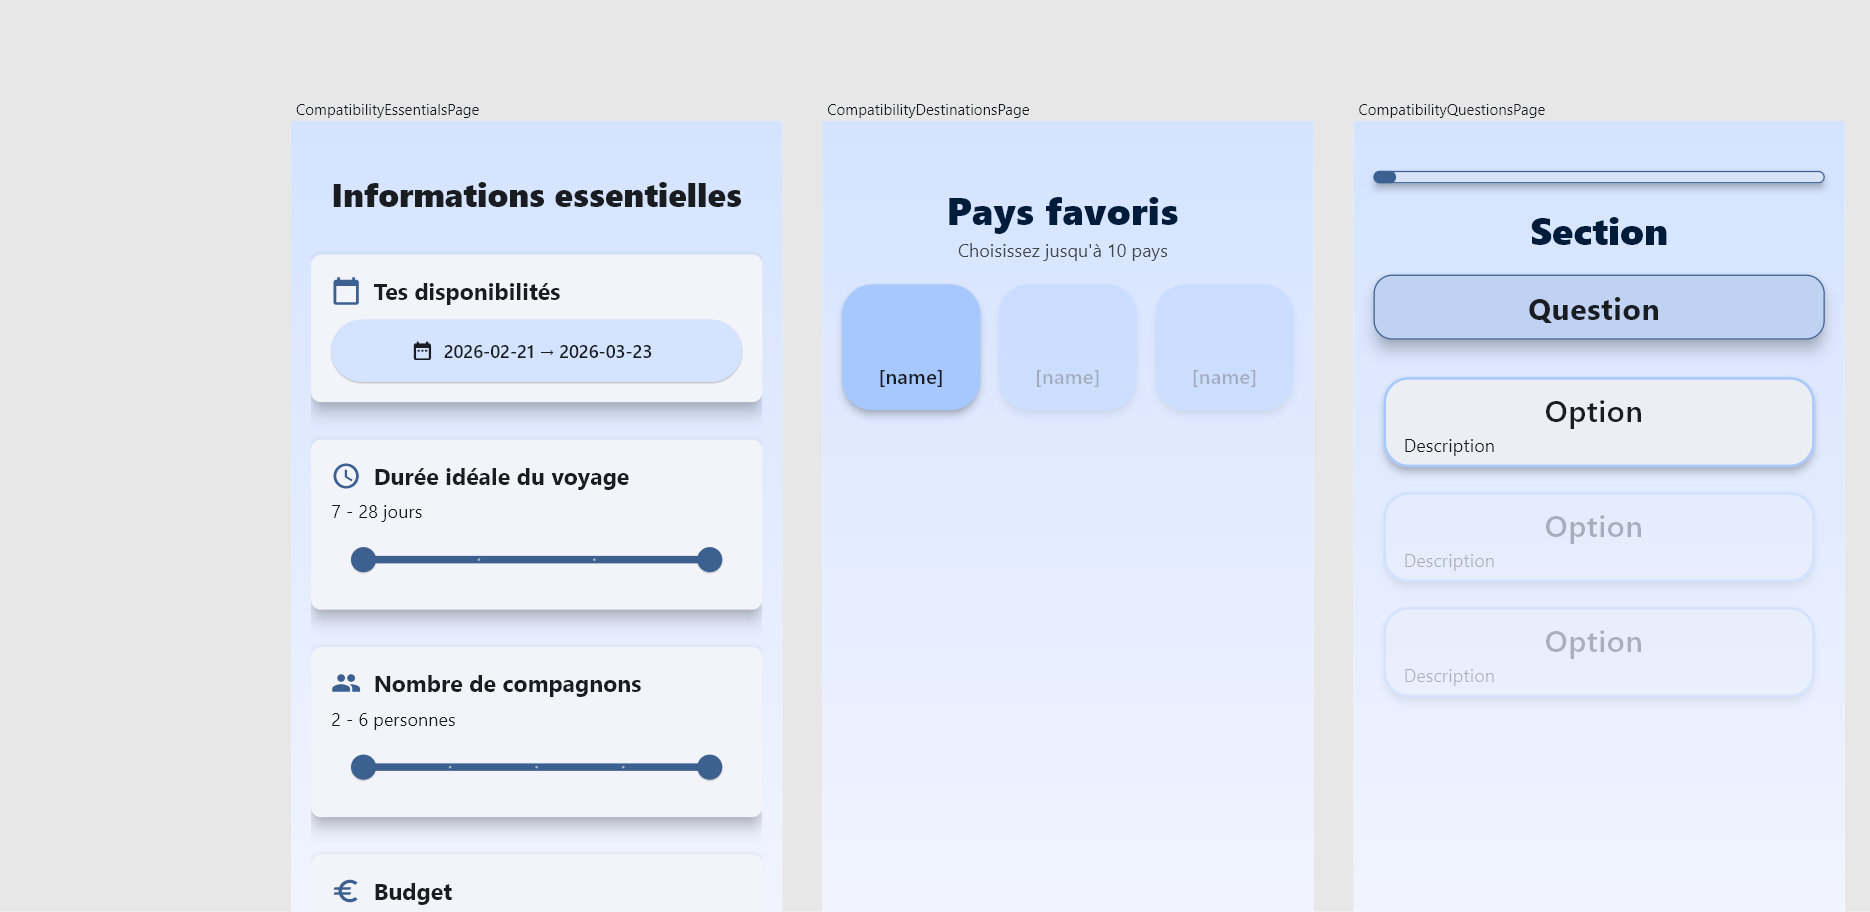
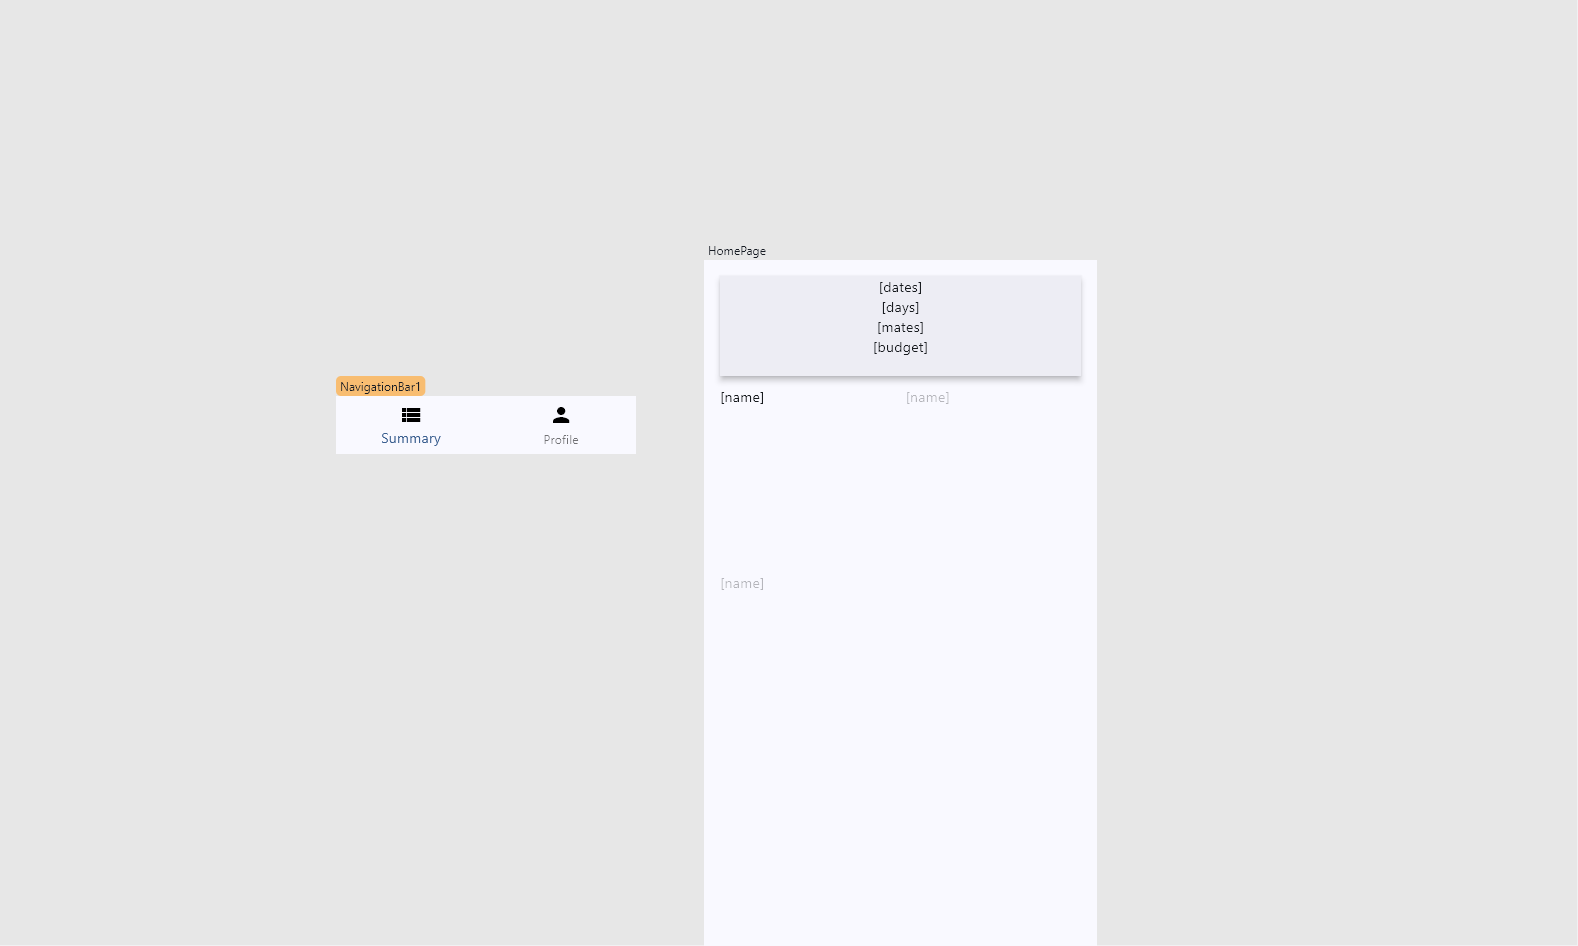
✨ Add HomePage and NavigationBar1 components, update compatibility destination handling

diff --git a/lib/pages/home_page.dart b/lib/pages/home_page.dart
@@ -1,0 +1,129 @@
+import 'package:flutter/material.dart';
+import 'package:nowa_runtime/nowa_runtime.dart';
+import 'package:railmates/pages/compatibility_essentials_page.dart';
+import 'package:railmates/models/compatibility_model.dart';
+import 'package:railmates/integrations/supabase_service.dart';
+import 'package:railmates/models/compatibility_destinations_model.dart';
+import 'package:railmates/components/nav_bar.dart';
+
+@NowaGenerated()
+class HomePage extends StatefulWidget {
+  @NowaGenerated({'loader': 'auto-constructor'})
+  const HomePage({super.key});
+
+  @override
+  State<HomePage> createState() {
+    return _HomePageState();
+  }
+}
+
+@NowaGenerated()
+class _HomePageState extends State<HomePage> {
+  @override
+  Widget build(BuildContext context) {
+    return Scaffold(
+      body: SafeArea(
+        maintainBottomViewPadding: false,
+        minimum: const EdgeInsets.symmetric(vertical: 16.0, horizontal: 16.0),
+        child: Column(
+          spacing: 10.0,
+          mainAxisSize: MainAxisSize.min,
+          mainAxisAlignment: MainAxisAlignment.start,
+          children: [
+            FlexSizedBox(
+              width: double.infinity,
+              height: 100.0,
+              child: GestureDetector(
+                onTap: () {
+                  Navigator.of(context).push(
+                    MaterialPageRoute(
+                      builder: (context) => const CompatibilityEssentialsPage(),
+                    ),
+                  );
+                },
+                child: DataBuilder<CompatibilityModel?>(
+                  builder: (context, data) => Material(
+                    color: Theme.of(context).colorScheme.surfaceContainer,
+                    elevation: 5.0,
+                    child: Column(
+                      spacing: 0.0,
+                      mainAxisSize: MainAxisSize.min,
+                      mainAxisAlignment: MainAxisAlignment.start,
+                      children: [
+                        FlexSizedBox(
+                          width: null,
+                          height: null,
+                          child: Text(data!.dates!),
+                        ),
+                        FlexSizedBox(
+                          width: null,
+                          height: null,
+                          child: Text(data!.days!),
+                        ),
+                        FlexSizedBox(
+                          width: null,
+                          height: null,
+                          child: Text(data!.mates!),
+                        ),
+                        FlexSizedBox(
+                          width: null,
+                          height: null,
+                          child: Text(data!.budget!),
+                        ),
+                      ],
+                    ),
+                  ),
+                  loadingWidget: const Align(
+                    alignment: Alignment(0.0, 0.0),
+                    child: CircularProgressIndicator(),
+                  ),
+                  errorBuilder: (context, error) => Align(
+                    alignment: const Alignment(0.0, 0.0),
+                    child: Text(
+                      error.toString(),
+                      style: const TextStyle(color: Color(0xFFFF0000)),
+                    ),
+                  ),
+                  future: SupabaseService().getUserCompatibility(),
+                ),
+              ),
+            ),
+            FlexSizedBox(
+              width: double.infinity,
+              height: 500.0,
+              child: DataBuilder<List<CompatibilityDestinationsModel>>(
+                builder: (context, data) => GridView.custom(
+                  gridDelegate: const SliverGridDelegateWithFixedCrossAxisCount(
+                    crossAxisCount: 2,
+                    mainAxisSpacing: 10.0,
+                    crossAxisSpacing: 10.0,
+                  ),
+                  childrenDelegate: SliverChildBuilderDelegate((
+                    context,
+                    index,
+                  ) {
+                    final CompatibilityDestinationsModel element = data[index];
+                    return Text(element.country_id!.name!);
+                  }, childCount: data.length),
+                ),
+                loadingWidget: const Align(
+                  alignment: Alignment(0.0, 0.0),
+                  child: CircularProgressIndicator(),
+                ),
+                errorBuilder: (context, error) => Align(
+                  alignment: const Alignment(0.0, 0.0),
+                  child: Text(
+                    error.toString(),
+                    style: const TextStyle(color: Color(0xFFFF0000)),
+                  ),
+                ),
+                future: SupabaseService().getAllCompatibility_destinations(),
+              ),
+            ),
+          ],
+        ),
+      ),
+      bottomNavigationBar: const NavBar(index: 0),
+    );
+  }
+}

diff --git a/lib/pages/compatibility_destinations_page.dart b/lib/pages/compatibility_destinations_page.dart
@@ -112,16 +112,16 @@ class _CompatibilityDestinationsPageState
                           trackpadScrollToScaleFactor: const Offset(0.0, 0.0),
                           onTap: () {
                             if (selectedCountries!.any(
-                              (dest) => dest.country_id == element.id,
+                              (dest) => dest.country_id?.id == element.id,
                             )) {
                               selectedCountries?.removeWhere(
-                                (dest) => dest.country_id == element.id,
+                                (dest) => dest.country_id?.id == element.id,
                               );
                             } else {
                               if (selectedCountries?.length != 10) {
                                 selectedCountries?.add(
                                   CompatibilityDestinationsModel(
-                                    country_id: element.id,
+                                    country_id: element,
                                   ),
                                 );
                               } else {
@@ -148,7 +148,7 @@ class _CompatibilityDestinationsPageState
                           child: Material(
                             color:
                                 (selectedCountries!.any(
-                                  (dest) => dest.country_id == element.id,
+                                  (dest) => dest.country_id?.id == element.id,
                                 ))
                                 ? Theme.of(context).colorScheme.inversePrimary
                                 : Theme.of(

diff --git a/lib/models/compatibility_destinations_model.dart b/lib/models/compatibility_destinations_model.dart
@@ -1,3 +1,4 @@
+import 'package:railmates/models/countries_model.dart';
 import 'package:nowa_runtime/nowa_runtime.dart';
 
 @NowaGenerated()
@@ -9,16 +10,16 @@ class CompatibilityDestinationsModel {
   factory CompatibilityDestinationsModel.fromJson(Map<String, dynamic> json) {
     return CompatibilityDestinationsModel(
       profile_id: json['profile_id'],
-      country_id: json['country_id'],
+      country_id: CountriesModel.fromJson(json['country_id'] ?? {}),
     );
   }
 
   final String? profile_id;
 
-  final int? country_id;
+  final CountriesModel? country_id;
 
   @NowaGenerated({'loader': 'auto-to-json'})
   Map<String, dynamic> toJson() {
-    return {'profile_id': profile_id, 'country_id': country_id};
+    return {'profile_id': profile_id, 'country_id': country_id?.id};
   }
 }

diff --git a/lib/components/nav_bar.dart b/lib/components/nav_bar.dart
@@ -1,0 +1,28 @@
+import 'package:flutter/material.dart';
+import 'package:nowa_runtime/nowa_runtime.dart';
+
+@NowaGenerated({'auto-width': 300.0, 'auto-height': 58.0})
+class NavBar extends StatelessWidget {
+  @NowaGenerated({'loader': 'auto-constructor'})
+  const NavBar({required this.index, super.key});
+
+  final int index;
+
+  @override
+  Widget build(BuildContext context) {
+    return BottomNavigationBar(
+      items: [
+        const BottomNavigationBarItem(
+          icon: Icon(Icons.view_list, color: Color(0xFF000000)),
+          label: 'Summary',
+        ),
+        const BottomNavigationBarItem(
+          icon: Icon(Icons.person, color: Color(0xFF000000)),
+          label: 'Profile',
+        ),
+      ],
+      currentIndex: index,
+      onTap: (value) {},
+    );
+  }
+}

diff --git a/lib/integrations/supabase_service.dart b/lib/integrations/supabase_service.dart
@@ -216,7 +216,7 @@ class SupabaseService {
       getAllCompatibility_destinations() async {
     final response = await Supabase.instance.client
         .from('compatibility_destinations')
-        .select('*');
+        .select('*, country_id(*)');
     return response
         .map((json) => CompatibilityDestinationsModel.fromJson(json))
         .toList();
